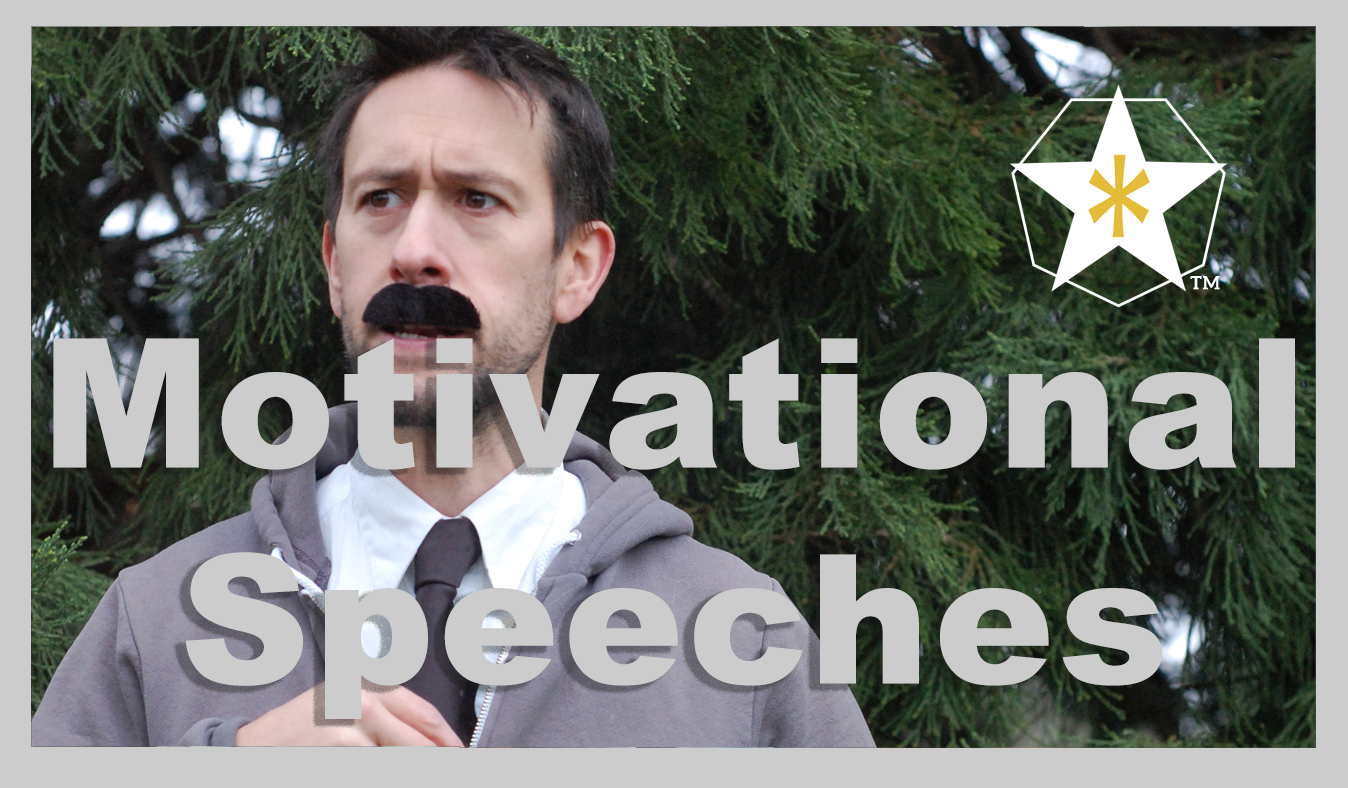
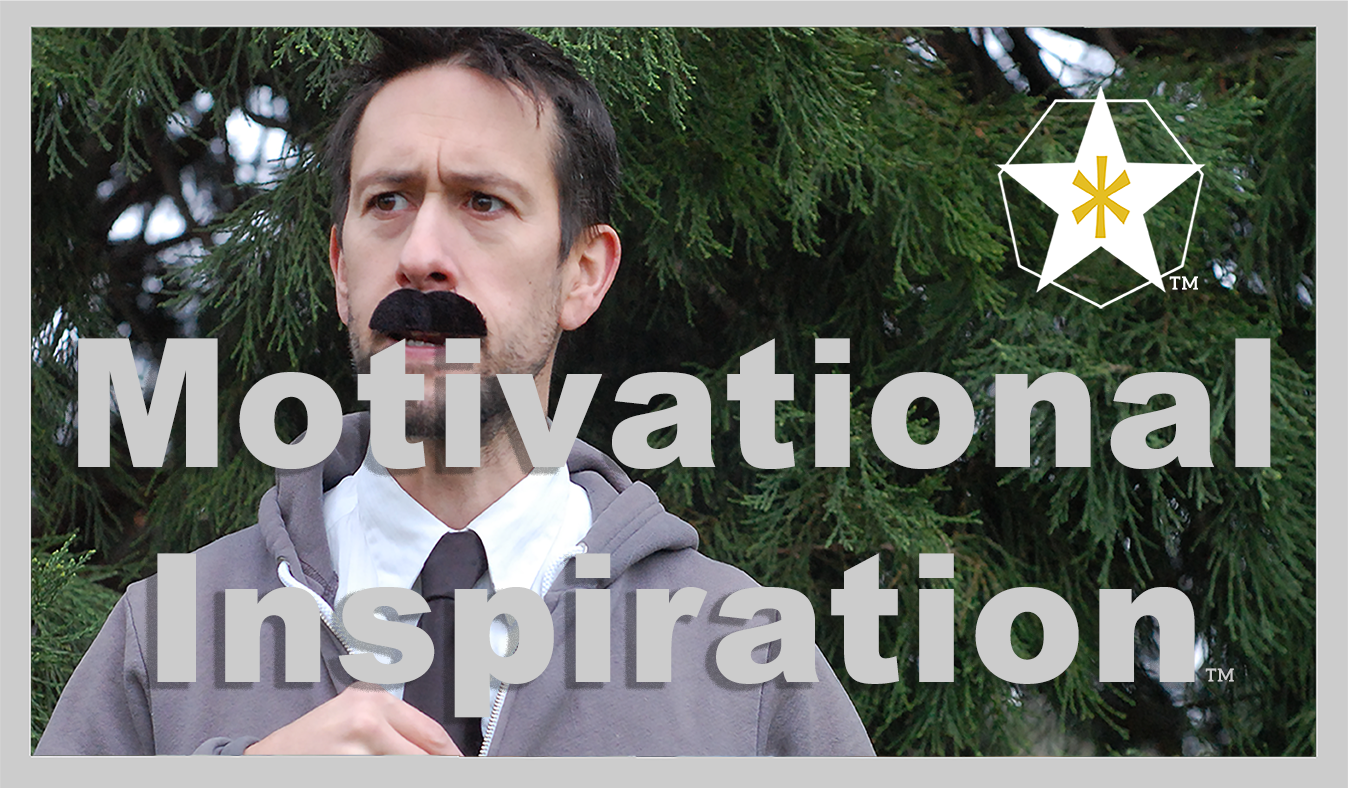
changed all branding references for Motivational Inspiration

diff --git a/src/components/Performance.js b/src/components/Performance.js
@@ -39,7 +39,7 @@ export default function Performance () {
                 <img src={motivational}
                 className="talent__image"
                 alt="Walter sporting a thick mustache, passionately speaking before a majestic cedar."></img>
-                <figcaption className="talent__caption">Motivational Speeches</figcaption>
+                <figcaption className="talent__caption">Motivational Inspiration</figcaption>
               </figure>
             </a>
           </div>

diff --git a/src/index.css b/src/index.css
@@ -443,7 +443,8 @@ label {
   display: inline-block;
   z-index: 1; }
   .talent__image {
-    width: 100%; }
+    width: 100%;
+    height: 100%; }
   .talent__link {
     text-decoration: none; }
   .talent__caption {

diff --git a/sass/components/_performance.scss b/sass/components/_performance.scss
@@ -16,6 +16,7 @@
 
   &__image {
   width: 100%;
+  height: 100%;
   }
 
   &__link {
